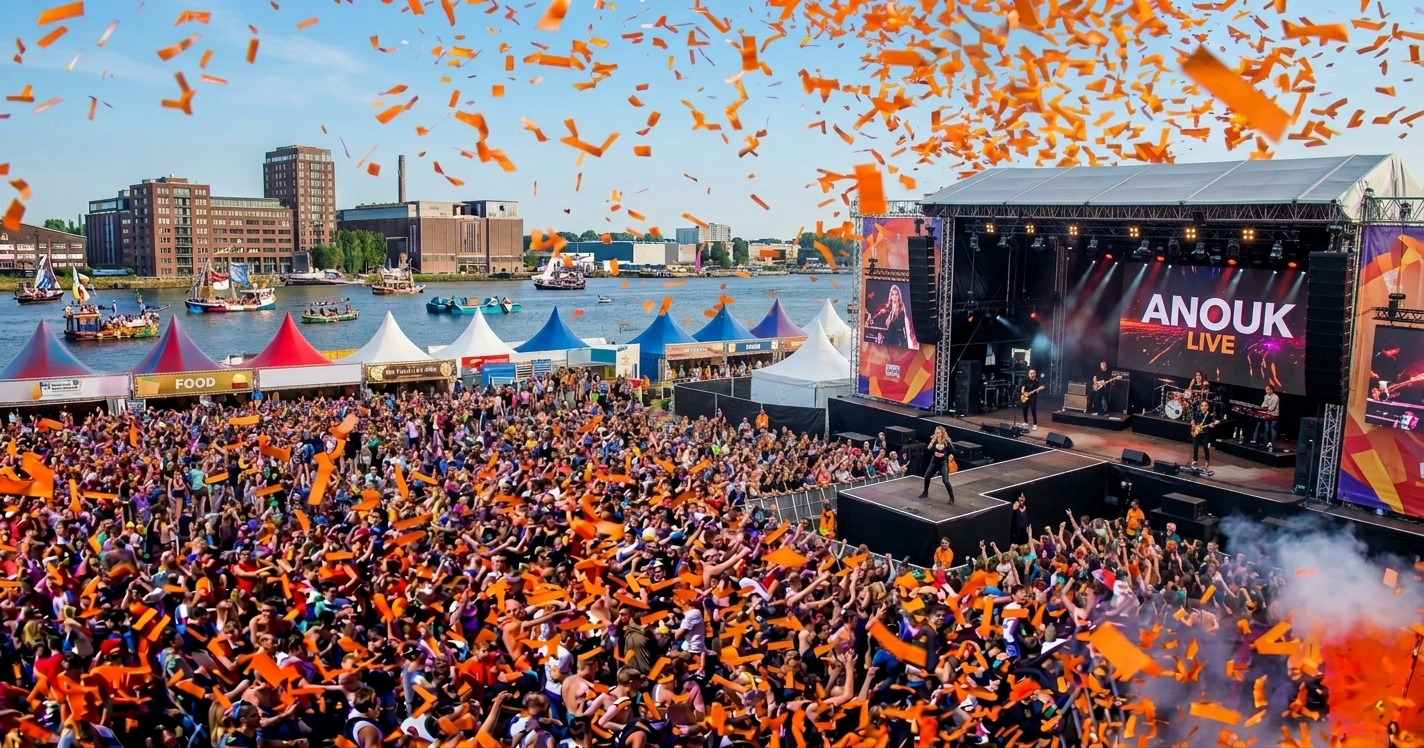
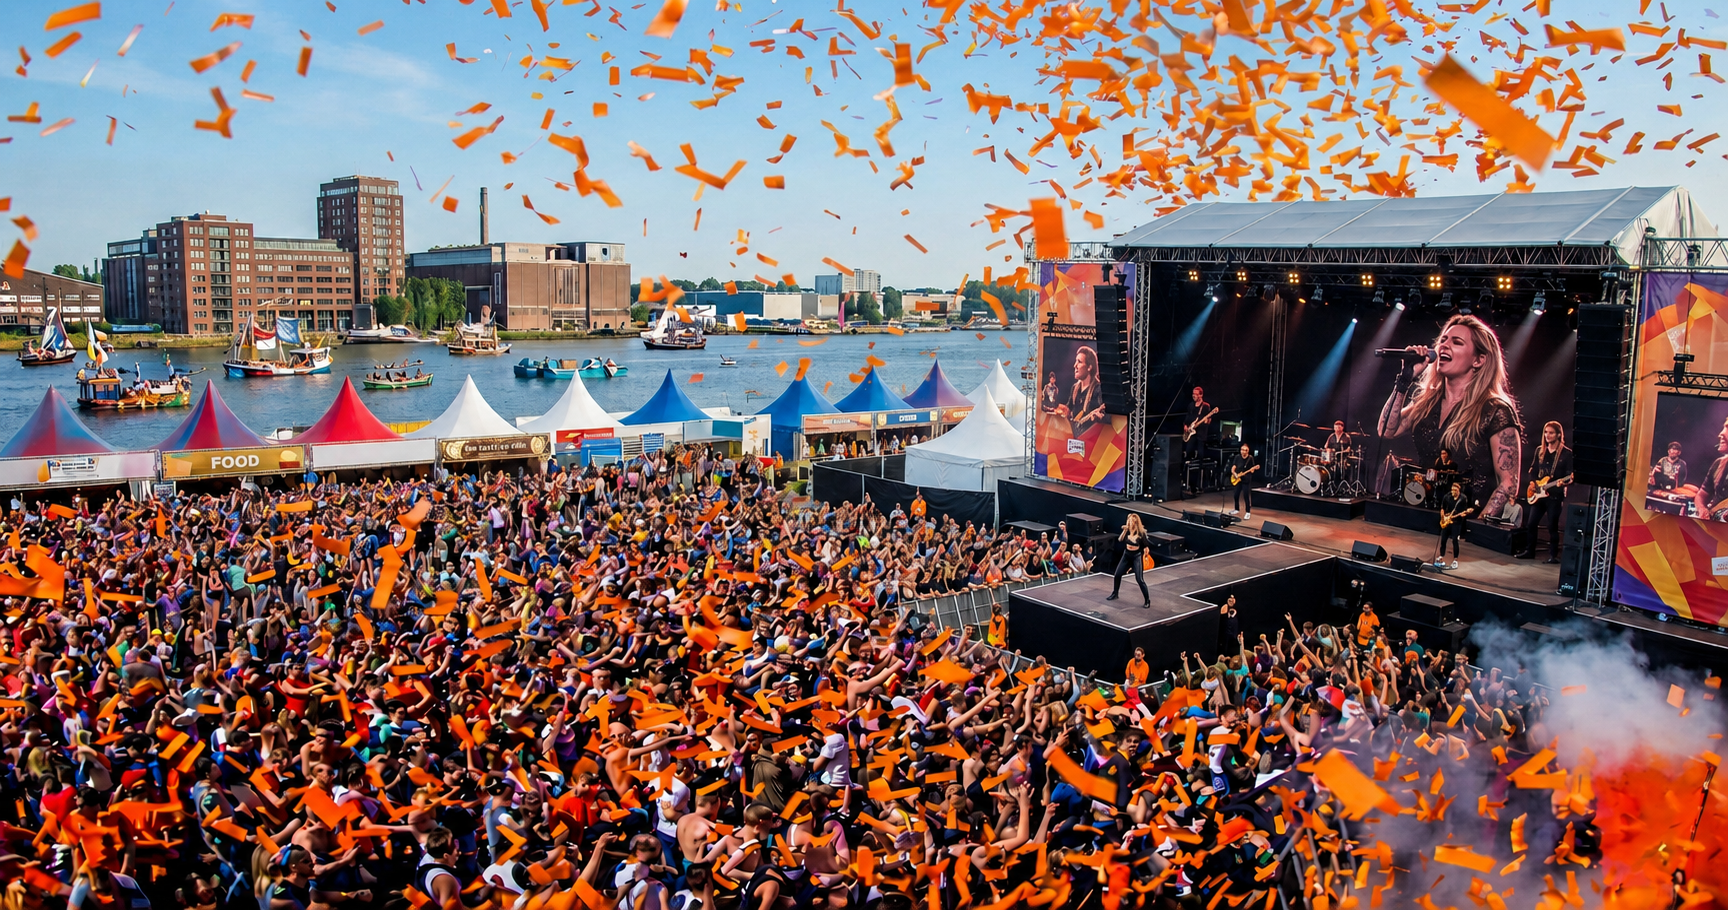
Add files via upload

diff --git a/index.html b/index.html
@@ -2,6 +2,7 @@
 <html lang="en"><head>
 <meta charset="UTF-8">
 <meta name="viewport" content="width=device-width, initial-scale=1.0">
+<meta name="color-scheme" content="dark">
 
 <!-- ✦ PRIMARY SEO -->
 <title>Talking Dutch | Learn Dutch Online with a Native Tutor — Jonathan van Hassel</title>
@@ -161,6 +162,7 @@
 <link href="https://fonts.googleapis.com/css2?family=Orbitron:wght@400;700;900&family=Barlow:wght@300;400;500;600&display=swap" rel="stylesheet">
 <style>
   :root {
+    color-scheme: dark;
     --bg: #1a1a1a;
     --surface: #222;
     --surface2: #1e1e1e;

diff --git a/about.html b/about.html
@@ -2,6 +2,7 @@
 <html lang="en"><head>
 <meta charset="UTF-8">
 <meta name="viewport" content="width=device-width, initial-scale=1.0">
+<meta name="color-scheme" content="dark">
 
 <!-- ✦ PRIMARY SEO -->
 <title>About Talking Dutch | Meet Tutor Jonathan van Hassel</title>
@@ -161,6 +162,7 @@
 <link href="https://fonts.googleapis.com/css2?family=Orbitron:wght@400;700;900&family=Barlow:wght@300;400;500;600&display=swap" rel="stylesheet">
 <style>
   :root {
+    color-scheme: dark;
     --bg: #1a1a1a;
     --surface: #222;
     --surface2: #1e1e1e;

diff --git a/packages.html b/packages.html
@@ -2,6 +2,7 @@
 <html lang="en"><head>
 <meta charset="UTF-8">
 <meta name="viewport" content="width=device-width, initial-scale=1.0">
+<meta name="color-scheme" content="dark">
 
 <!-- ✦ PRIMARY SEO -->
 <title>Packages & Pricing | Talking Dutch Online Lessons</title>
@@ -161,6 +162,7 @@
 <link href="https://fonts.googleapis.com/css2?family=Orbitron:wght@400;700;900&family=Barlow:wght@300;400;500;600&display=swap" rel="stylesheet">
 <style>
   :root {
+    color-scheme: dark;
     --bg: #1a1a1a;
     --surface: #222;
     --surface2: #1e1e1e;

diff --git a/syllabus.html b/syllabus.html
@@ -2,6 +2,7 @@
 <html lang="en"><head>
 <meta charset="UTF-8">
 <meta name="viewport" content="width=device-width, initial-scale=1.0">
+<meta name="color-scheme" content="dark">
 
 <!-- ✦ PRIMARY SEO -->
 <title>Syllabus | Talking Dutch Study Program A1–C1</title>
@@ -161,6 +162,7 @@
 <link href="https://fonts.googleapis.com/css2?family=Orbitron:wght@400;700;900&family=Barlow:wght@300;400;500;600&display=swap" rel="stylesheet">
 <style>
   :root {
+    color-scheme: dark;
     --bg: #1a1a1a;
     --surface: #222;
     --surface2: #1e1e1e;

diff --git a/courseware.html b/courseware.html
@@ -2,6 +2,7 @@
 <html lang="en"><head>
 <meta charset="UTF-8">
 <meta name="viewport" content="width=device-width, initial-scale=1.0">
+<meta name="color-scheme" content="dark">
 
 <!-- ✦ PRIMARY SEO -->
 <title>Courseware | Talking Dutch Learning Materials</title>
@@ -161,6 +162,7 @@
 <link href="https://fonts.googleapis.com/css2?family=Orbitron:wght@400;700;900&family=Barlow:wght@300;400;500;600&display=swap" rel="stylesheet">
 <style>
   :root {
+    color-scheme: dark;
     --bg: #1a1a1a;
     --surface: #222;
     --surface2: #1e1e1e;

diff --git a/faq.html b/faq.html
@@ -2,6 +2,7 @@
 <html lang="en"><head>
 <meta charset="UTF-8">
 <meta name="viewport" content="width=device-width, initial-scale=1.0">
+<meta name="color-scheme" content="dark">
 
 <!-- ✦ PRIMARY SEO -->
 <title>Frequently Asked Questions | Talking Dutch</title>
@@ -161,6 +162,7 @@
 <link href="https://fonts.googleapis.com/css2?family=Orbitron:wght@400;700;900&family=Barlow:wght@300;400;500;600&display=swap" rel="stylesheet">
 <style>
   :root {
+    color-scheme: dark;
     --bg: #1a1a1a;
     --surface: #222;
     --surface2: #1e1e1e;

diff --git a/blog.html b/blog.html
@@ -2,6 +2,7 @@
 <html lang="en"><head>
 <meta charset="UTF-8">
 <meta name="viewport" content="width=device-width, initial-scale=1.0">
+<meta name="color-scheme" content="dark">
 
 <!-- ✦ PRIMARY SEO -->
 <title>Dutch Learning Blog | Talking Dutch</title>
@@ -161,6 +162,7 @@
 <link href="https://fonts.googleapis.com/css2?family=Orbitron:wght@400;700;900&family=Barlow:wght@300;400;500;600&display=swap" rel="stylesheet">
 <style>
   :root {
+    color-scheme: dark;
     --bg: #1a1a1a;
     --surface: #222;
     --surface2: #1e1e1e;

diff --git a/terms.html b/terms.html
@@ -2,6 +2,7 @@
 <html lang="en"><head>
 <meta charset="UTF-8">
 <meta name="viewport" content="width=device-width, initial-scale=1.0">
+<meta name="color-scheme" content="dark">
 
 <!-- ✦ PRIMARY SEO -->
 <title>Terms & Conditions | Talking Dutch</title>
@@ -161,6 +162,7 @@
 <link href="https://fonts.googleapis.com/css2?family=Orbitron:wght@400;700;900&family=Barlow:wght@300;400;500;600&display=swap" rel="stylesheet">
 <style>
   :root {
+    color-scheme: dark;
     --bg: #1a1a1a;
     --surface: #222;
     --surface2: #1e1e1e;

diff --git a/contact.html b/contact.html
@@ -2,6 +2,7 @@
 <html lang="en"><head>
 <meta charset="UTF-8">
 <meta name="viewport" content="width=device-width, initial-scale=1.0">
+<meta name="color-scheme" content="dark">
 
 <!-- ✦ PRIMARY SEO -->
 <title>Contact Jonathan | Talking Dutch</title>
@@ -161,6 +162,7 @@
 <link href="https://fonts.googleapis.com/css2?family=Orbitron:wght@400;700;900&family=Barlow:wght@300;400;500;600&display=swap" rel="stylesheet">
 <style>
   :root {
+    color-scheme: dark;
     --bg: #1a1a1a;
     --surface: #222;
     --surface2: #1e1e1e;

diff --git a/privacy.html b/privacy.html
@@ -2,6 +2,7 @@
 <html lang="en"><head>
 <meta charset="UTF-8">
 <meta name="viewport" content="width=device-width, initial-scale=1.0">
+<meta name="color-scheme" content="dark">
 
 <!-- ✦ PRIMARY SEO -->
 <title>Privacy Policy | Talking Dutch</title>
@@ -161,6 +162,7 @@
 <link href="https://fonts.googleapis.com/css2?family=Orbitron:wght@400;700;900&family=Barlow:wght@300;400;500;600&display=swap" rel="stylesheet">
 <style>
   :root {
+    color-scheme: dark;
     --bg: #1a1a1a;
     --surface: #222;
     --surface2: #1e1e1e;
